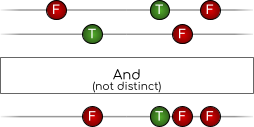
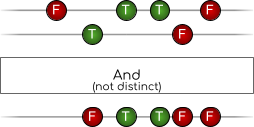
Updated documentation

diff --git a/README.md b/README.md
@@ -8,31 +8,85 @@ Article containing examples in relation to home automation: [Article with exampl
 
 ## Logical Operators
 
-This library has extension methods for logical operators:
+This library has extension methods for logical operators.
+
+### Stateful observables
+All operators except for `Not` are implemented using `CombineLatest`. This means that the first output is only emitted if all inputs have emitted an value after subscribing. For this reason, it makes sense to apply logical operators to stateful observables. In this context these are observables that emit their current state the moment an observer subscribes to them. This can easily be achieved by using `Prepend`, preferably in combination with `Observable.Defer`. For example:
+```csharp
+Observable.Defer(() => source.Prepend(initialState));
+```
+
+### Distinctness
+Depending on the operator, there are several ways of handling value distinctness. Different forms are explained below.
 
 ### Not
+
+Returns an observable in which the input is inverted.
 
 ![Not](docs/img/Not.png)
 
 ### And
 
+Returns an observable that combines the latest of the provided observables using an AND operator.
+The `And` method accepts three values to determine distinctness of the output:
+
+**OutputDistinctUntilChanged (default)**
+
+DistinctUntilChanged is applied to the returned observable, meaning a "true" can only be followed by a "false" and vice versa.
+
 ![And](docs/img/And.png)
 
-### And (not distinct)
+**InputDistinctUntilChanged**
+
+DistinctUntilChanged is applied to the inputs only. Meaning that consecutive values on the input do not change the output, but input changes on different inputs can. For example, going from "false", "false" to "true", "false" will emit consecutive "false" values.
+
+![And (input distinct)](docs/img/And%20(input%20distinct).png)
+
+**NotDistinct**
+
+DistinctUntilChanged is never applied. Meaning both consecutive input and output values will be emitted.
 
 ![And (not distinct)](docs/img/And%20(not%20distinct).png)
 
 ### Or
 
+Returns an observable that combines the latest of the provided observables using an OR operator.
+The `Or` method accepts three values to determine distinctness of the output:
+
+**OutputDistinctUntilChanged (default)**
+
+DistinctUntilChanged is applied to the returned observable, meaning a "true" can only be followed by a "false" and vice versa.
+
 ![Or](docs/img/Or.png)
 
-### Or (not distinct)
+**InputDistinctUntilChanged**
+
+DistinctUntilChanged is applied to the inputs only. Meaning that consecutive values on the input do not change the output, but input changes on different inputs can. For example, going from "true", "false" to "true", "true" will emit consecutive "true" values.
+
+![Or (input distinct)](docs/img/Or%20(input%20distinct).png)
+
+**NotDistinct**
+
+DistinctUntilChanged is never applied. Meaning both consecutive input and output values will be emitted.
 
 ![Or (not distinct)](docs/img/Or%20(not%20distinct).png)
 
 ### XOr
 
+Returns an observable that combines the latest results of two observables using an XOR operator.
+As changing distinct inputs will always result in a distinct XOR output, the `Xor` method accepts only two values to determine distinctness of the output:
+
+**distinctUntilChanged = true (default)**
+
+DistinctUntilChanged is applied to the result.
+
 ![XOr](docs/img/XOr.png)
+
+**distinctUntilChanged = false**
+
+DistinctUntilChanged is not applied to the result.
+
+![XOr (not distinct)](docs/img/XOr%20(not%20distinct).png)
 
 ## Scheduling
 
